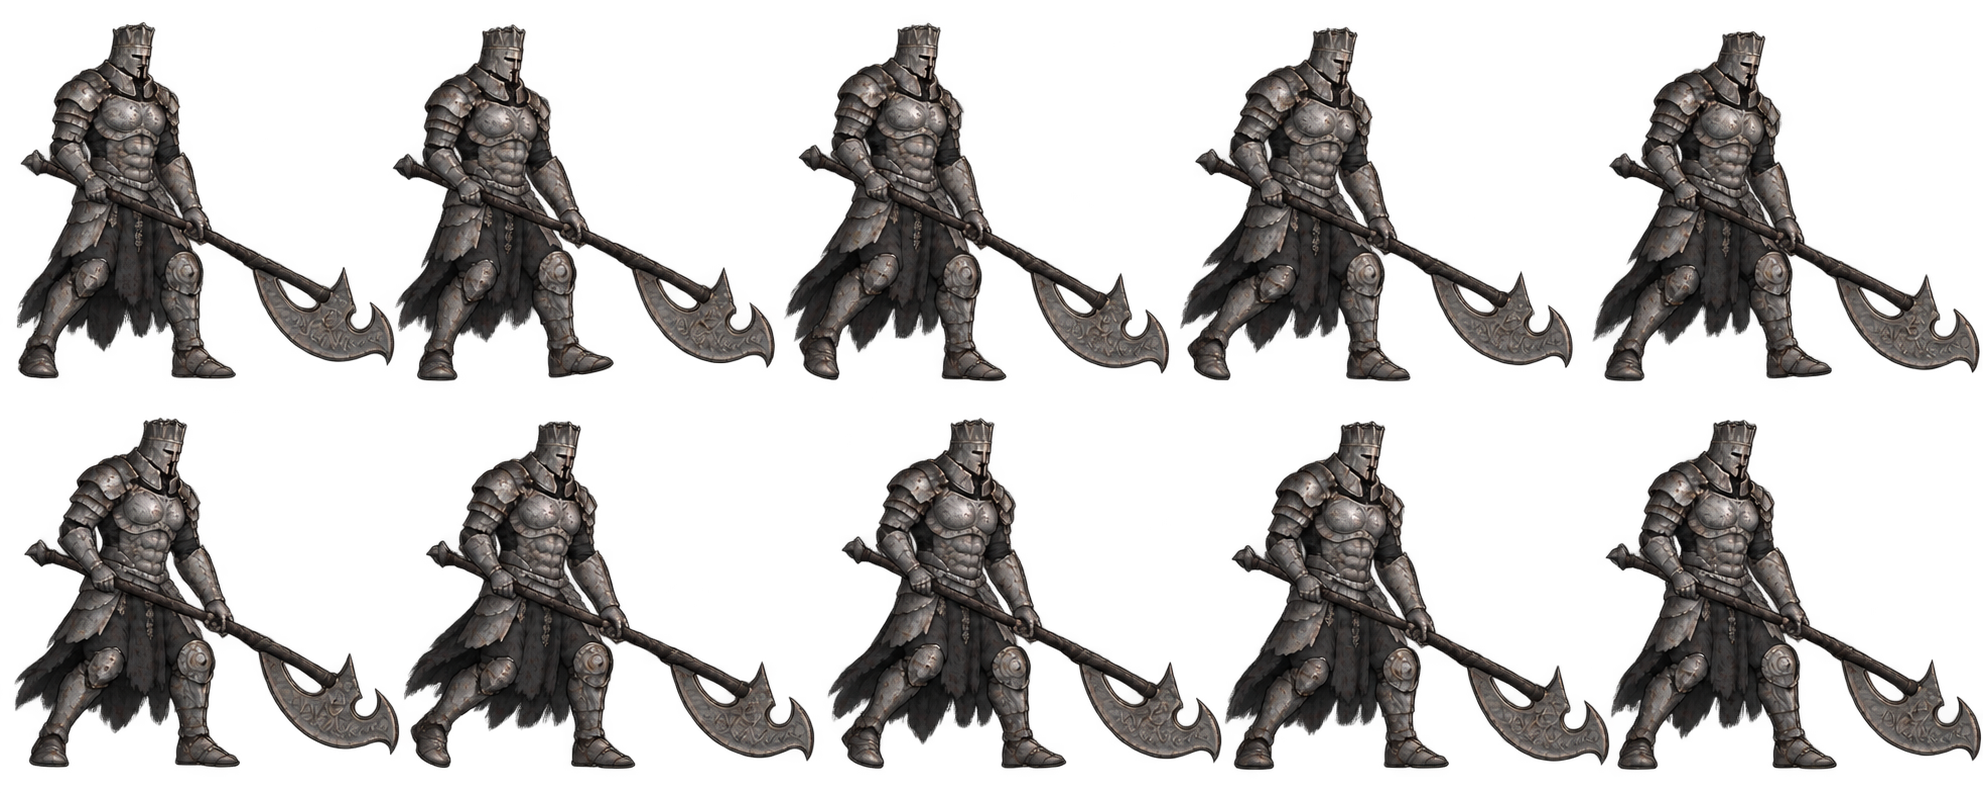
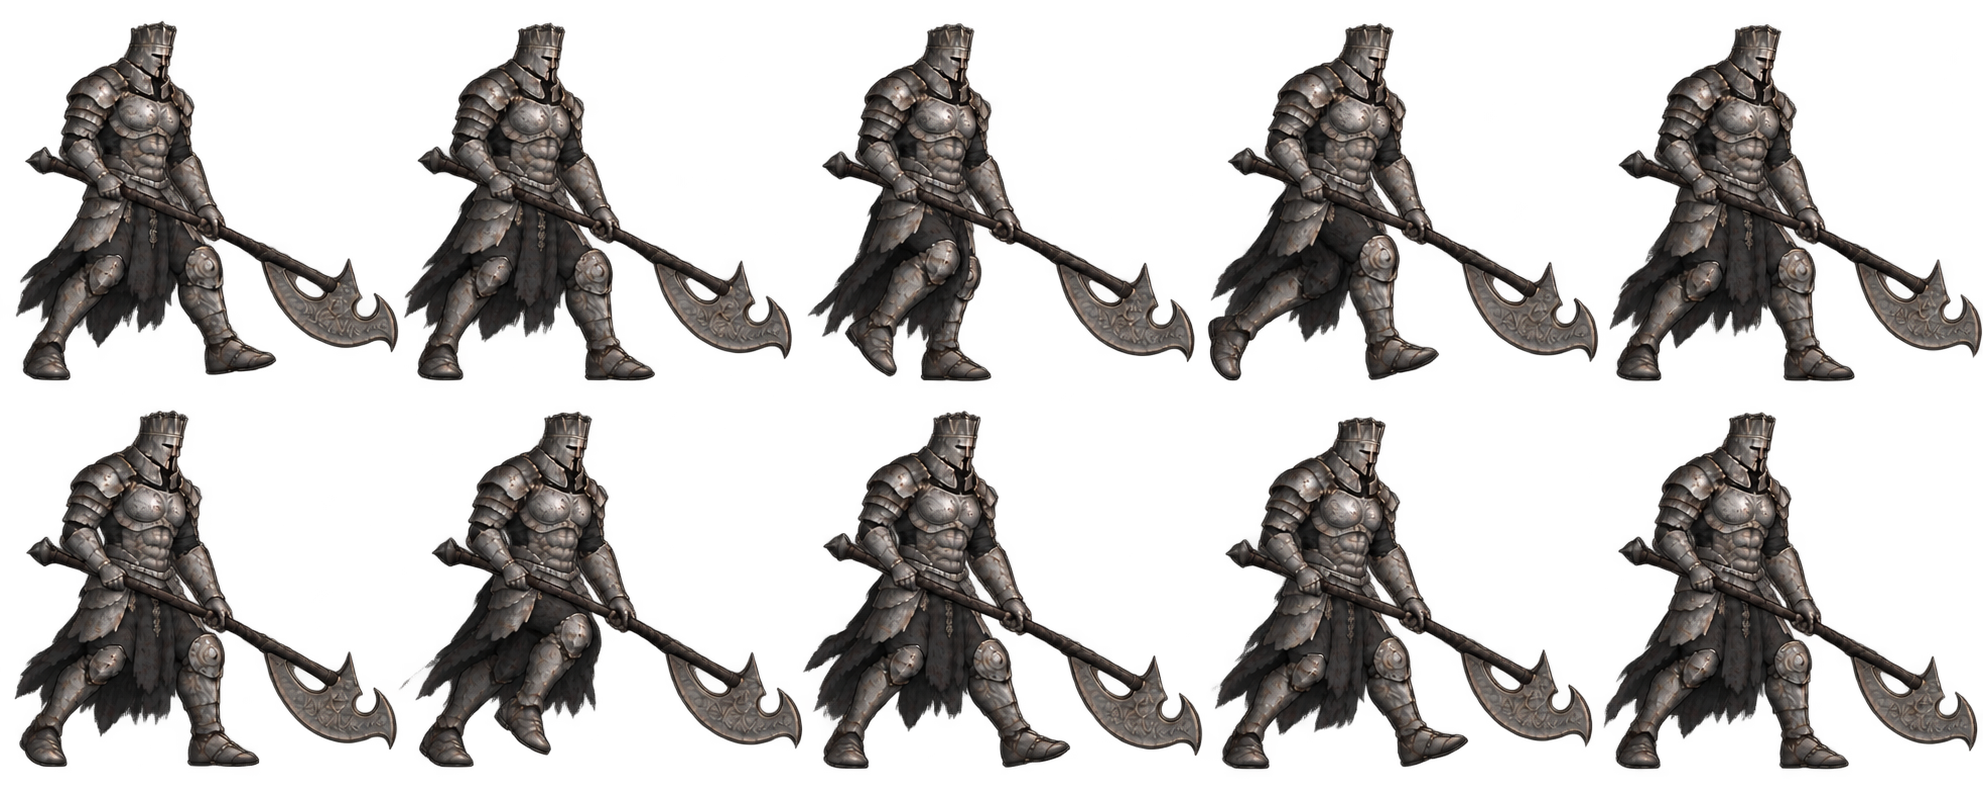
fix: ground Gundyr walk cycle

diff --git a/main.py b/main.py
@@ -377,6 +377,7 @@ class Gundyr:
         self.combo_left = 0
         self.last_attack = ""
         self.flash = self.stagger = self.dead_time = 0.0
+        self.moving = False
 
     def receive(self, damage):
         if self.state in ("intro", "dead"):
@@ -459,6 +460,7 @@ class Gundyr:
 
     def update(self, dt, hero):
         events = []
+        self.moving = False
         self.timer += dt
         self.flash = max(0, self.flash - dt)
         distance = abs(hero.pos.x - self.pos.x)
@@ -496,8 +498,10 @@ class Gundyr:
             self.cooldown -= dt
             if distance > 200:
                 self.pos.x += self.facing * (78 + self.phase * 12) * dt
+                self.moving = True
             elif distance < 105:
                 self.pos.x -= self.facing * 44 * dt
+                self.moving = True
             # At long range Gundyr closes the gap instead of swinging at air.
             if self.cooldown <= 0 and distance <= 300:
                 self.select_attack(distance)
@@ -603,12 +607,13 @@ class Gundyr:
         elif self.state in ("leap", "backstep", "transform"):
             name, duration = "special", 1.6
         elif self.state == "idle":
-            name, duration = "walk", .9
+            name, duration = ("walk" if self.moving else "idle"), .9
         else:
             name, duration = "idle", 1.0
         frames = sprites[name]
         if name in ("idle", "walk"):
-            frame_index = int(self.timer * 6) % len(frames)
+            speed = 9 if name == "walk" else 4
+            frame_index = int(self.timer * speed) % len(frames)
         else:
             frame_index = min(len(frames) - 1, int(self.timer / duration * len(frames)))
         frame = frames[frame_index]
@@ -620,7 +625,9 @@ class Gundyr:
             frame.fill((90, 30, 24, 0), special_flags=pygame.BLEND_RGB_ADD)
         if self.state == "dead":
             frame = pygame.transform.rotate(frame, -70 * self.facing)
-        rect = frame.get_rect(midbottom=(pos.x, pos.y + 2))
+        # The scaled strips retain three transparent pixels below the boots.
+        # Four pixels place the visible soles one pixel into the shadow/ground.
+        rect = frame.get_rect(midbottom=(pos.x, pos.y + 4))
         surface.blit(frame, rect)
         if self.state == "stagger":
             draw_text(surface, pygame.font.SysFont("georgia", 18), "VULNERÁVEL", (pos.x, pos.y - 175), (226, 182, 87), "center")

diff --git a/README.md b/README.md
@@ -37,6 +37,6 @@ Durante o desenvolvimento, as hitboxes começam visíveis: azul para o jogador, 
 Todas as animações do cavaleiro e os movimentos largos do chefe usam uma fonte independente por movimento em `assets/source_v5/`, organizada em uma grade invisível 5×2. O exportador transforma cada fonte em uma tira de dez células isoladas em `assets/animations_v5/`, com margem de segurança, botas completas e linha de chão normalizada. Assim nenhuma espada, alabarda ou parte dos pés invade o quadro vizinho.
 
 - Cavaleiro: idle, corrida, rolamento, defesa, beber Estus, morte com pose final deitada, dois ataques leves e dois ataques fortes.
-- Iudex Gundyr: identidade alta e assimétrica inspirada na referência, alabarda consistente, idle, caminhada, duas varreduras, duas estocadas, golpe vertical e movimentos especiais.
+- Iudex Gundyr: identidade alta e assimétrica inspirada na referência, alabarda consistente, idle separado, caminhada com passos alternados, duas varreduras, duas estocadas, golpe vertical e movimentos especiais.
 
 Os atlases-fonte antigos ficam em `assets/hero_v3_atlas.png` e `assets/gundyr_v3_atlas.png`. Para reexportá-los, execute `py prepare_sprites.py`. Para reexportar as animações independentes corrigidas, execute `py prepare_independent_sprites.py`.
